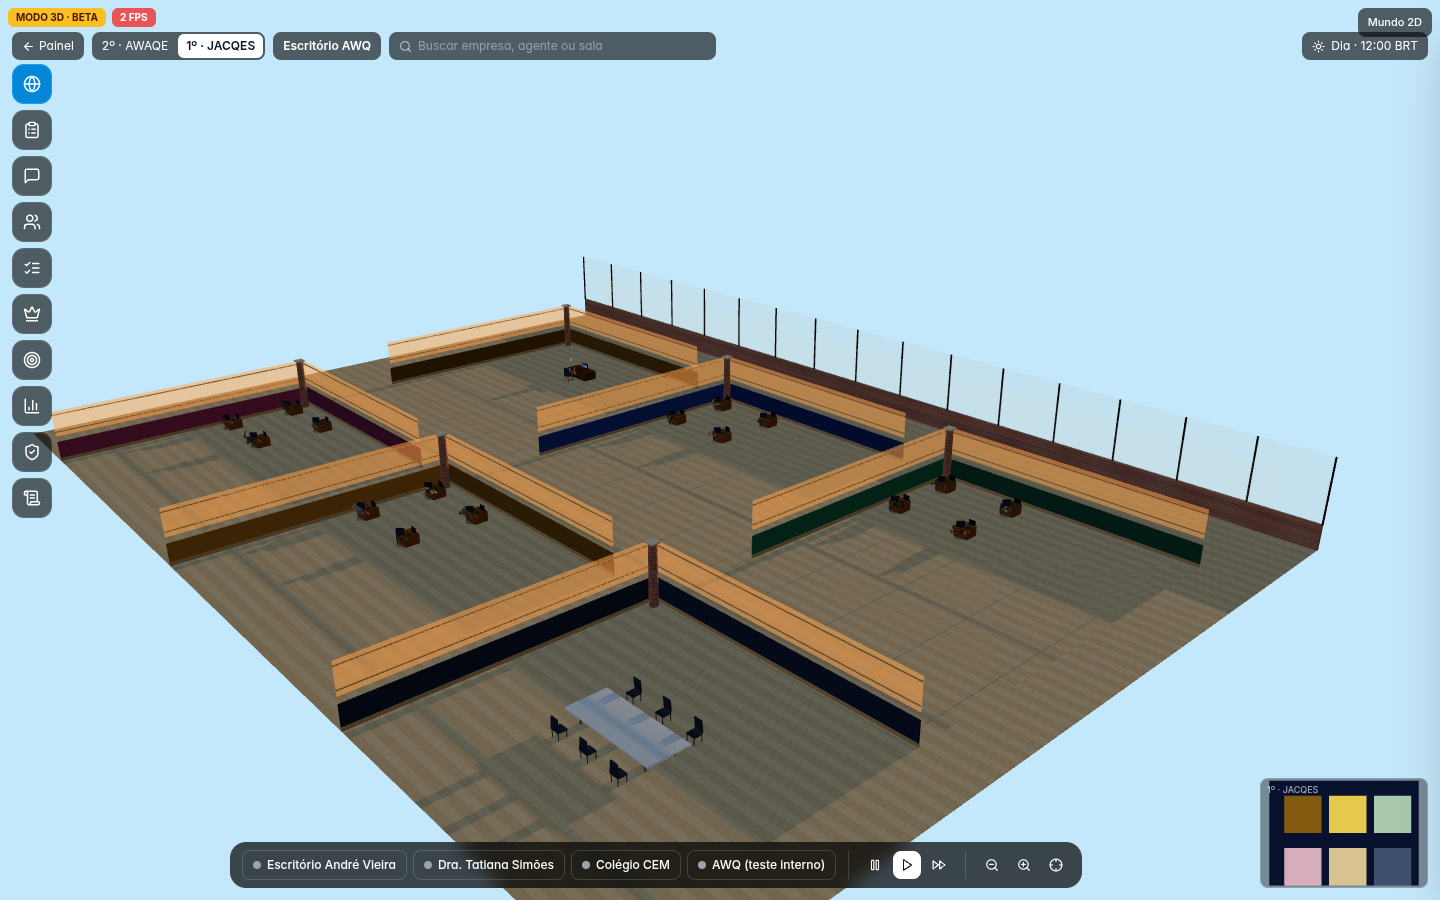
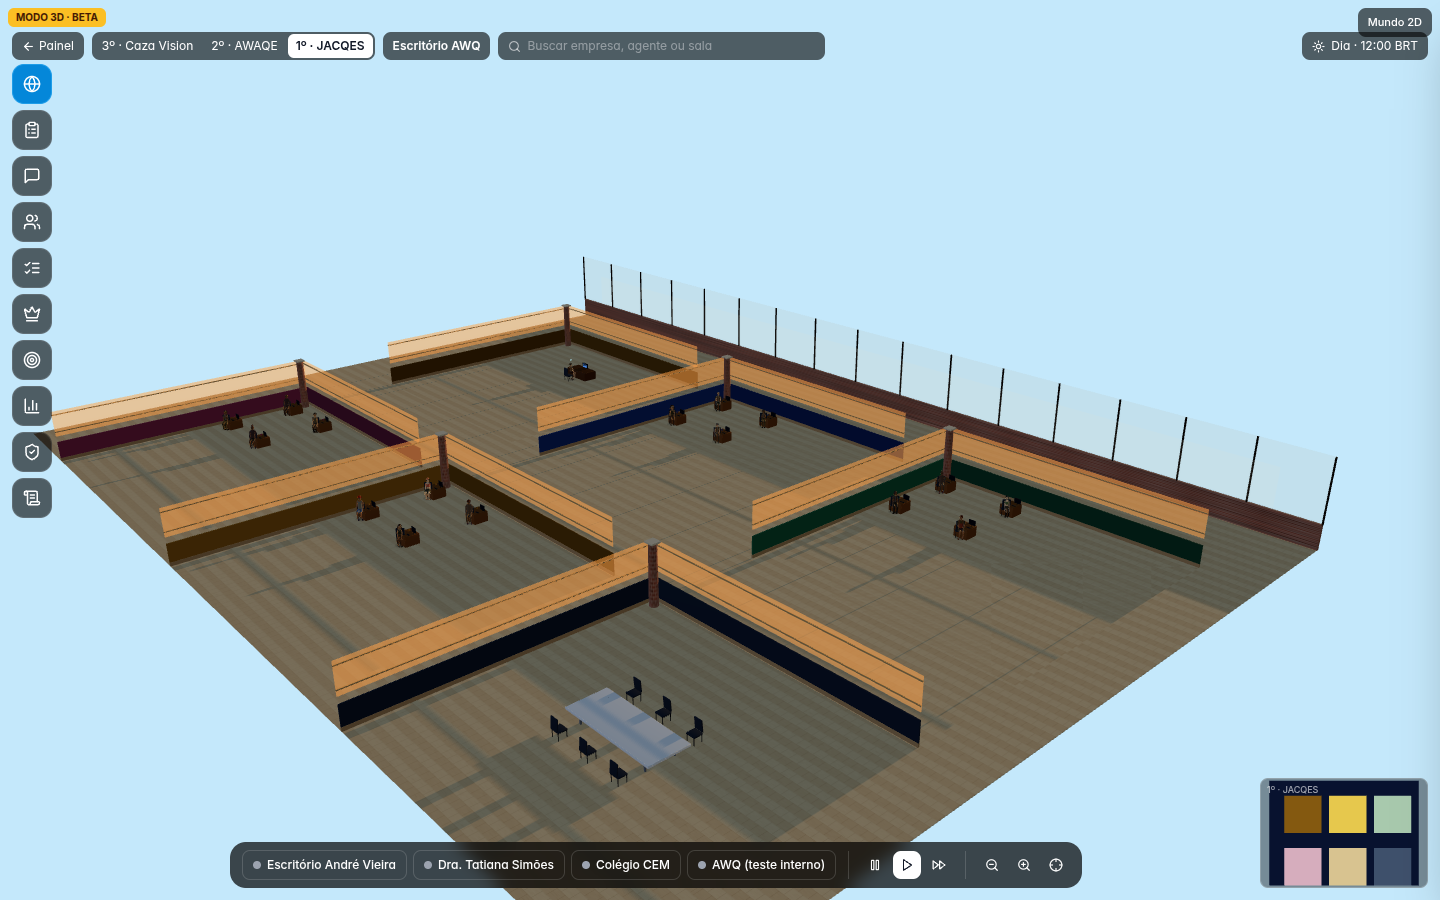
fix(office): sentar apontando o membro, sem esticar o pé
O eixo local muda entre os rigs e o grupo está virado para a câmera, então
rotateX/rotateZ abria as pernas. A pose aponta o +Y de cada osso no espaço
do personagem. O osso Body desce até o assento; o pé só gira e não translada.

Changed region(s): [[0.0312, 0.0, 0.5938, 0.0933]]

diff --git a/components/office/CorpoQuaternius.tsx b/components/office/CorpoQuaternius.tsx
@@ -33,47 +33,56 @@ const PELE_MAT = /skin/i;
 const INTACTO = /eye|brow|earring|gold|teeth|mouth/i;
 
 /**
- * O GLTFLoader tira o ponto do nome (`UpperLeg.L` → `UpperLegL`). O eixo local
- * X da coxa no rig masculino aponta para trás, então rotateX abre as pernas
- * de lado. O sentar gira em torno do eixo lateral do personagem (para a
- * frente da cadeira) e os braços usam o Z local, com sinal espelhado, nas
- * magnitudes de digitação (~1.0 no braço, ~0.6 no antebraço).
+ * O pacote Quaternius não traz clipe de sentar (só Idle, Walk, Interact…).
+ * O eixo local também muda entre os rigs: no masculino o X da coxa aponta
+ * para trás, no feminino aponta para o lado, e o Z do braço não é o mesmo
+ * depois que o grupo gira para a câmera. `rotateX` / `rotateZ` / `rotateOnWorldAxis`
+ * misturam esses eixos e abrem as pernas. A pose aponta o +Y de cada osso
+ * (o eixo que segue o membro) para uma direção no espaço do personagem,
+ * compondo o quaternion do pai — vale igual para os dois GLBs.
+ * Os pés ficam no Root, separados da perna: só recebem a rotação de repouso.
+ * Transladar o osso do pé estica a malha. Quem desce até o assento é o osso
+ * Body (quadril e pernas), uma vez calibrado.
  */
-const PERNAS = new Set(["Hips", "UpperLegL", "UpperLegR", "LowerLegL", "LowerLegR", "FootL", "FootR"]);
-const COXA = -1.15;
-const CANELA = -1.9;
-const BRACO = 1.0;
-const ANTEBRACO = 0.6;
-const INCLINACAO = -0.18;
-/** Desce o quadril até o assento. -0.12 deixava o corpo em pé atrás da cadeira. */
-const QUEDA = -0.22;
+const POSE = ["Hips", "Abdomen", "Chest", "UpperLegL", "UpperLegR", "LowerLegL", "LowerLegR", "FootL", "FootR", "UpperArmL", "UpperArmR", "LowerArmL", "LowerArmR", "WristL", "WristR"];
+/** Quadril no mundo, em cima do assento (topo ~0.29). A malha da pelve fica um pouco abaixo do osso. */
+const ALVO_QUADRIL = 0.38;
 
-const _eixo = new THREE.Vector3();
-const _q = new THREE.Quaternion();
-const _joelho = new THREE.Vector3();
-const _dir = new THREE.Vector3();
+const _lateral = new THREE.Vector3();
+const _frente = new THREE.Vector3();
+const _cima = new THREE.Vector3();
+const _baixo = new THREE.Vector3();
 const _alvo = new THREE.Vector3();
-const _escala = new THREE.Vector3();
+const _atual = new THREE.Vector3();
+const _v = new THREE.Vector3();
+const _delta = new THREE.Quaternion();
+const _pai = new THREE.Quaternion();
+const _local = new THREE.Quaternion();
 
-function nomeOsso(nome: string) {
-  return nome.replace(/\./g, "");
+/** Rotação no mundo que respeita o quaternion dos pais (o grupo está virado para a câmera). */
+function girarNoMundo(osso: THREE.Bone, eixo: THREE.Vector3, angulo: number) {
+  if (!osso.parent || Math.abs(angulo) < 1e-4) return;
+  _delta.setFromAxisAngle(eixo, angulo);
+  osso.parent.getWorldQuaternion(_pai);
+  _local.copy(_pai).invert().multiply(_delta).multiply(_pai);
+  osso.quaternion.premultiply(_local);
 }
 
-function girarLateral(osso: THREE.Bone, grupo: THREE.Object3D, angulo: number) {
-  grupo.updateMatrixWorld(true);
-  _eixo.set(1, 0, 0).transformDirection(grupo.matrixWorld);
-  if (_eixo.lengthSq() < 1e-6) return;
-  osso.rotateOnWorldAxis(_eixo.normalize(), angulo);
-}
-
-function plantarPe(perna: THREE.Bone, pe: THREE.Bone) {
-  perna.getWorldPosition(_joelho);
-  _dir.set(0, -1, 0).applyQuaternion(perna.getWorldQuaternion(_q));
-  perna.getWorldScale(_escala);
-  _alvo.copy(_joelho).addScaledVector(_dir, 0.42 * _escala.y);
-  _alvo.y = 0.04;
-  pe.parent?.worldToLocal(_alvo);
-  pe.position.copy(_alvo);
+/** Aponta o +Y do osso (direção do membro) para `desejado`, já em mundo. */
+function apontar(osso: THREE.Bone, desejado: THREE.Vector3) {
+  if (!osso.parent) return;
+  _alvo.copy(desejado);
+  if (_alvo.lengthSq() < 1e-6) return;
+  _alvo.normalize();
+  osso.updateMatrixWorld(true);
+  _atual.set(0, 1, 0).transformDirection(osso.matrixWorld);
+  if (_atual.lengthSq() < 1e-6) return;
+  _atual.normalize();
+  if (_atual.dot(_alvo) > 0.9995) return;
+  _delta.setFromUnitVectors(_atual, _alvo);
+  osso.parent.getWorldQuaternion(_pai);
+  _local.copy(_pai).invert().multiply(_delta).multiply(_pai);
+  osso.quaternion.premultiply(_local);
 }
 
 export function urlDoRig(semente: string): string {
@@ -145,15 +154,13 @@ function montarInstancia(cena: THREE.Object3D, manter: Set<string>, a: Aparencia
   });
   for (const o of remover) o.removeFromParent();
   const descanso = new Map<string, THREE.Quaternion>();
-  const pes = new Map<string, THREE.Vector3>();
   clone.traverse((o) => {
     const bone = o as THREE.Bone;
     if (!bone.isBone) return;
     descanso.set(bone.name, bone.quaternion.clone());
-    if (bone.name === "FootL" || bone.name === "FootR") pes.set(bone.name, bone.position.clone());
   });
   aplicarTinta(clone, a);
-  return { clone, descanso, pes };
+  return { clone, descanso };
 }
 
 /** Cabeça da semente, já tingida, para o retrato fora da cena. */
@@ -178,7 +185,9 @@ export function CorpoQuaternius({ semente, poseRef }: { semente: string; poseRef
   const acoes = useRef<Record<string, THREE.AnimationAction>>({});
   const atual = useRef<THREE.AnimationAction | null>(null);
   const descanso = useRef<Map<string, THREE.Quaternion>>(new Map());
-  const pes = useRef<Map<string, THREE.Vector3>>(new Map());
+  const ossos = useRef<Record<string, THREE.Bone> | null>(null);
+  const corpoBindY = useRef(0);
+  const quedaCorpo = useRef<number | null>(null);
   const jaSentado = useRef(false);
   const relogio = useRef(Math.random() * 10);
 
@@ -193,7 +202,14 @@ export function CorpoQuaternius({ semente, poseRef }: { semente: string; poseRef
     root.clear();
     root.add(montado.clone);
     descanso.current = montado.descanso;
-    pes.current = montado.pes;
+    const porOsso: Record<string, THREE.Bone> = {};
+    montado.clone.traverse((o) => {
+      const bone = o as THREE.Bone;
+      if (bone.isBone) porOsso[bone.name] = bone;
+    });
+    ossos.current = porOsso;
+    corpoBindY.current = porOsso.Body?.position.y ?? 0;
+    quedaCorpo.current = null;
     const mix = new THREE.AnimationMixer(montado.clone);
     mixer.current = mix;
     const mapa: Record<string, THREE.AnimationAction> = {};
@@ -214,73 +230,66 @@ export function CorpoQuaternius({ semente, poseRef }: { semente: string; poseRef
     const dt = Math.min(dtBruto, 0.05);
     relogio.current += dt;
     const pose = poseRef.current;
-    if (pose === "sentado") {
-      const base = acoes.current.Idle ?? acoes.current.Interact ?? acoes.current.Idle_Neutral;
-      if (base) {
-        if (atual.current !== base) {
-          mix.stopAllAction();
-          base.reset();
-          base.play();
-          base.paused = true;
-          atual.current = base;
-        }
-        base.paused = true;
-        base.time = 0;
-        mix.update(0);
+    const mapa = ossos.current;
+    const corpo = mapa?.Body;
+    if (pose === "sentado" && mapa && corpo) {
+      if (!jaSentado.current) {
+        mix.stopAllAction();
+        atual.current = null;
+        jaSentado.current = true;
       }
       const resp = Math.sin(relogio.current * 1.4);
-      const digita = Math.sin(relogio.current * 7) * 0.12;
-      root.position.y = QUEDA + resp * 0.008;
-      root.updateMatrixWorld(true);
-      const ossos = new Map<string, THREE.Bone>();
-      root.traverse((o) => {
-        const bone = o as THREE.Bone;
-        if (!bone.isBone) return;
-        const nome = nomeOsso(bone.name);
-        ossos.set(nome, bone);
-        if (!PERNAS.has(nome)) return;
-        const q = descanso.current.get(bone.name);
-        if (q) bone.quaternion.copy(q);
-      });
-      root.updateMatrixWorld(true);
-      for (const nome of ["UpperLegL", "UpperLegR"]) {
-        const bone = ossos.get(nome);
-        if (bone) girarLateral(bone, root, COXA);
+      const digita = Math.sin(relogio.current * 7) * 0.1;
+      root.position.y = 0;
+      root.updateWorldMatrix(true, true);
+      if (quedaCorpo.current == null && mapa.Hips) {
+        corpo.position.y = corpoBindY.current;
+        root.updateWorldMatrix(true, true);
+        const y0 = mapa.Hips.getWorldPosition(_v).y;
+        corpo.position.y = corpoBindY.current - 0.25;
+        root.updateWorldMatrix(true, true);
+        const ganho = (y0 - mapa.Hips.getWorldPosition(_v).y) / 0.25;
+        quedaCorpo.current = ganho > 1e-4 ? (y0 - ALVO_QUADRIL) / ganho : 0;
       }
-      for (const nome of ["LowerLegL", "LowerLegR"]) {
-        const bone = ossos.get(nome);
-        if (bone) bone.rotateX(CANELA);
+      corpo.position.y = corpoBindY.current - (quedaCorpo.current ?? 0) + resp * 0.01;
+      for (const nome of POSE) {
+        const bone = mapa[nome];
+        const q = bone && descanso.current.get(bone.name);
+        if (bone && q) bone.quaternion.copy(q);
       }
-      const bracoE = ossos.get("UpperArmL");
-      const bracoD = ossos.get("UpperArmR");
-      const anteE = ossos.get("LowerArmL");
-      const anteD = ossos.get("LowerArmR");
-      if (bracoE) bracoE.rotateZ(-(BRACO + digita));
-      if (bracoD) bracoD.rotateZ(BRACO + digita);
-      if (anteE) anteE.rotateZ(-(ANTEBRACO + digita * 0.5));
-      if (anteD) anteD.rotateZ(ANTEBRACO + digita * 0.5);
-      for (const nome of ["Abdomen", "Chest"]) {
-        const bone = ossos.get(nome);
-        if (bone) girarLateral(bone, root, INCLINACAO + resp * 0.04);
+      root.updateWorldMatrix(true, true);
+      _lateral.set(1, 0, 0).transformDirection(root.matrixWorld);
+      _frente.set(0, 0, 1).transformDirection(root.matrixWorld);
+      _cima.set(0, 1, 0).transformDirection(root.matrixWorld);
+      if (_lateral.lengthSq() > 1e-6 && _frente.lengthSq() > 1e-6) {
+        _lateral.normalize();
+        _frente.normalize();
+        _cima.normalize();
+        _baixo.copy(_cima).negate();
+        if (mapa.Abdomen) girarNoMundo(mapa.Abdomen, _lateral, -0.12 + resp * 0.04);
+        if (mapa.Chest) girarNoMundo(mapa.Chest, _lateral, -0.06 + resp * 0.02);
+        _v.copy(_frente).multiplyScalar(0.97).addScaledVector(_baixo, 0.24);
+        if (mapa.UpperLegL) apontar(mapa.UpperLegL, _v);
+        if (mapa.UpperLegR) apontar(mapa.UpperLegR, _v);
+        root.updateWorldMatrix(true, true);
+        _v.copy(_baixo).multiplyScalar(0.97).addScaledVector(_frente, -0.22);
+        if (mapa.LowerLegL) apontar(mapa.LowerLegL, _v);
+        if (mapa.LowerLegR) apontar(mapa.LowerLegR, _v);
+        root.updateWorldMatrix(true, true);
+        _v.copy(_frente).multiplyScalar(0.34).addScaledVector(_baixo, 0.9).addScaledVector(_lateral, 0.2);
+        if (mapa.UpperArmL) apontar(mapa.UpperArmL, _v);
+        _v.copy(_frente).multiplyScalar(0.34).addScaledVector(_baixo, 0.9).addScaledVector(_lateral, -0.2);
+        if (mapa.UpperArmR) apontar(mapa.UpperArmR, _v);
+        root.updateWorldMatrix(true, true);
+        _v.copy(_frente).multiplyScalar(0.42 + digita).addScaledVector(_baixo, 0.9 - digita);
+        if (mapa.LowerArmL) apontar(mapa.LowerArmL, _v);
+        if (mapa.LowerArmR) apontar(mapa.LowerArmR, _v);
       }
-      root.updateMatrixWorld(true);
-      const peE = ossos.get("FootL");
-      const peD = ossos.get("FootR");
-      const canelaE = ossos.get("LowerLegL");
-      const canelaD = ossos.get("LowerLegR");
-      if (peE && canelaE) plantarPe(canelaE, peE);
-      if (peD && canelaD) plantarPe(canelaD, peD);
-      jaSentado.current = true;
       return;
     }
     if (jaSentado.current) {
       root.position.y = 0;
-      root.traverse((o) => {
-        const bone = o as THREE.Bone;
-        if (!bone.isBone) return;
-        const p = pes.current.get(bone.name);
-        if (p) bone.position.copy(p);
-      });
+      if (corpo) corpo.position.y = corpoBindY.current;
       atual.current = null;
       jaSentado.current = false;
     }
